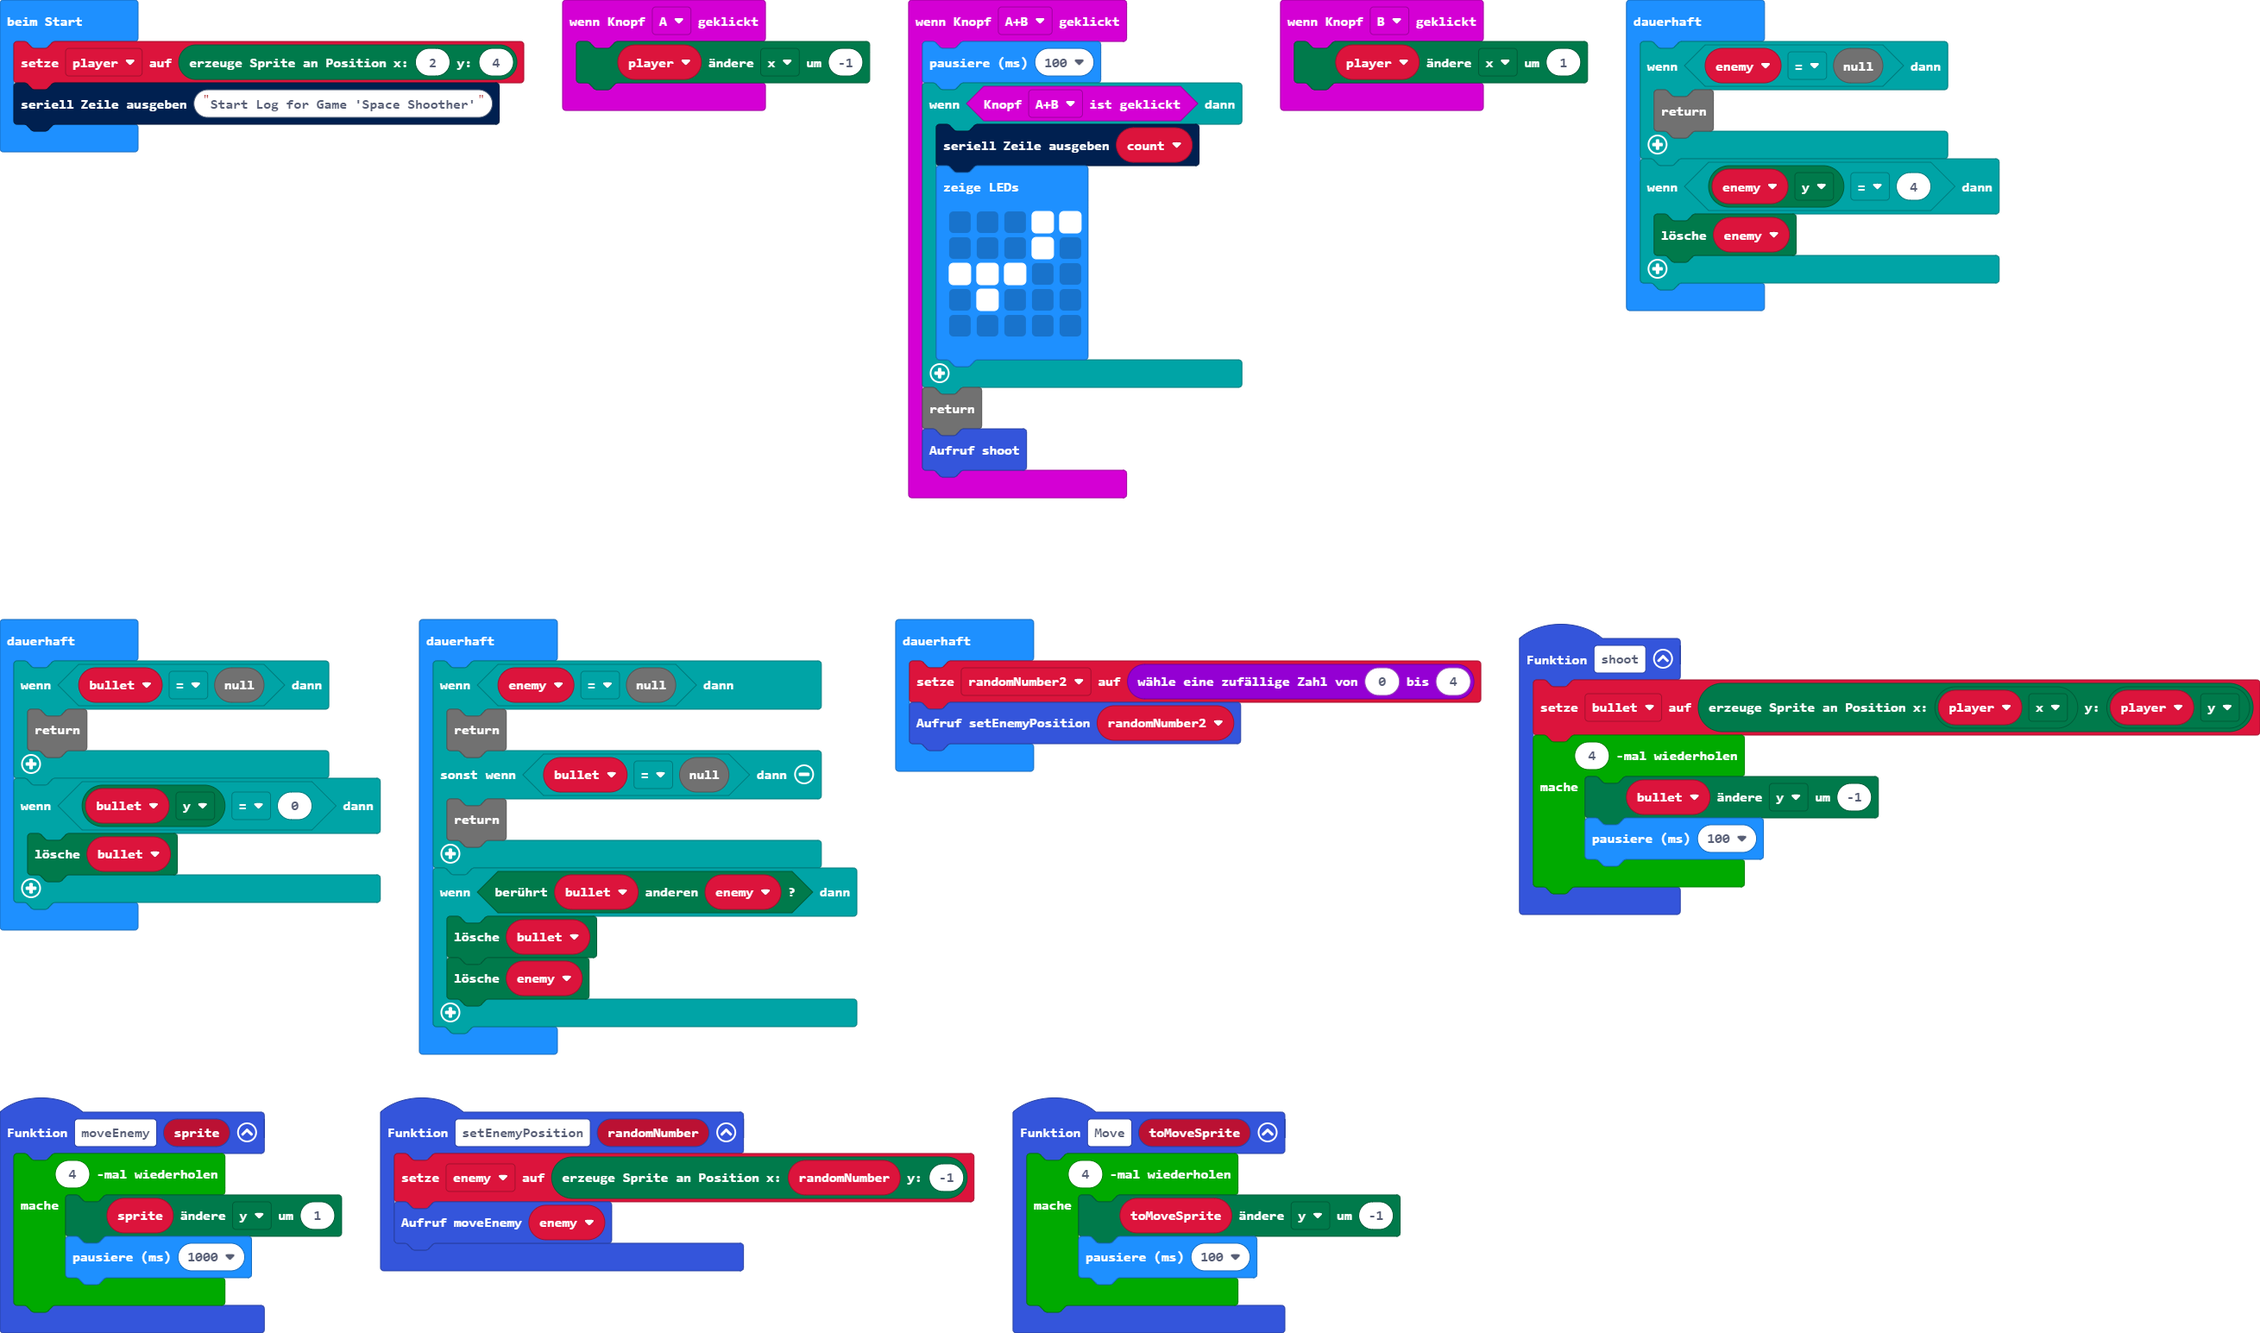
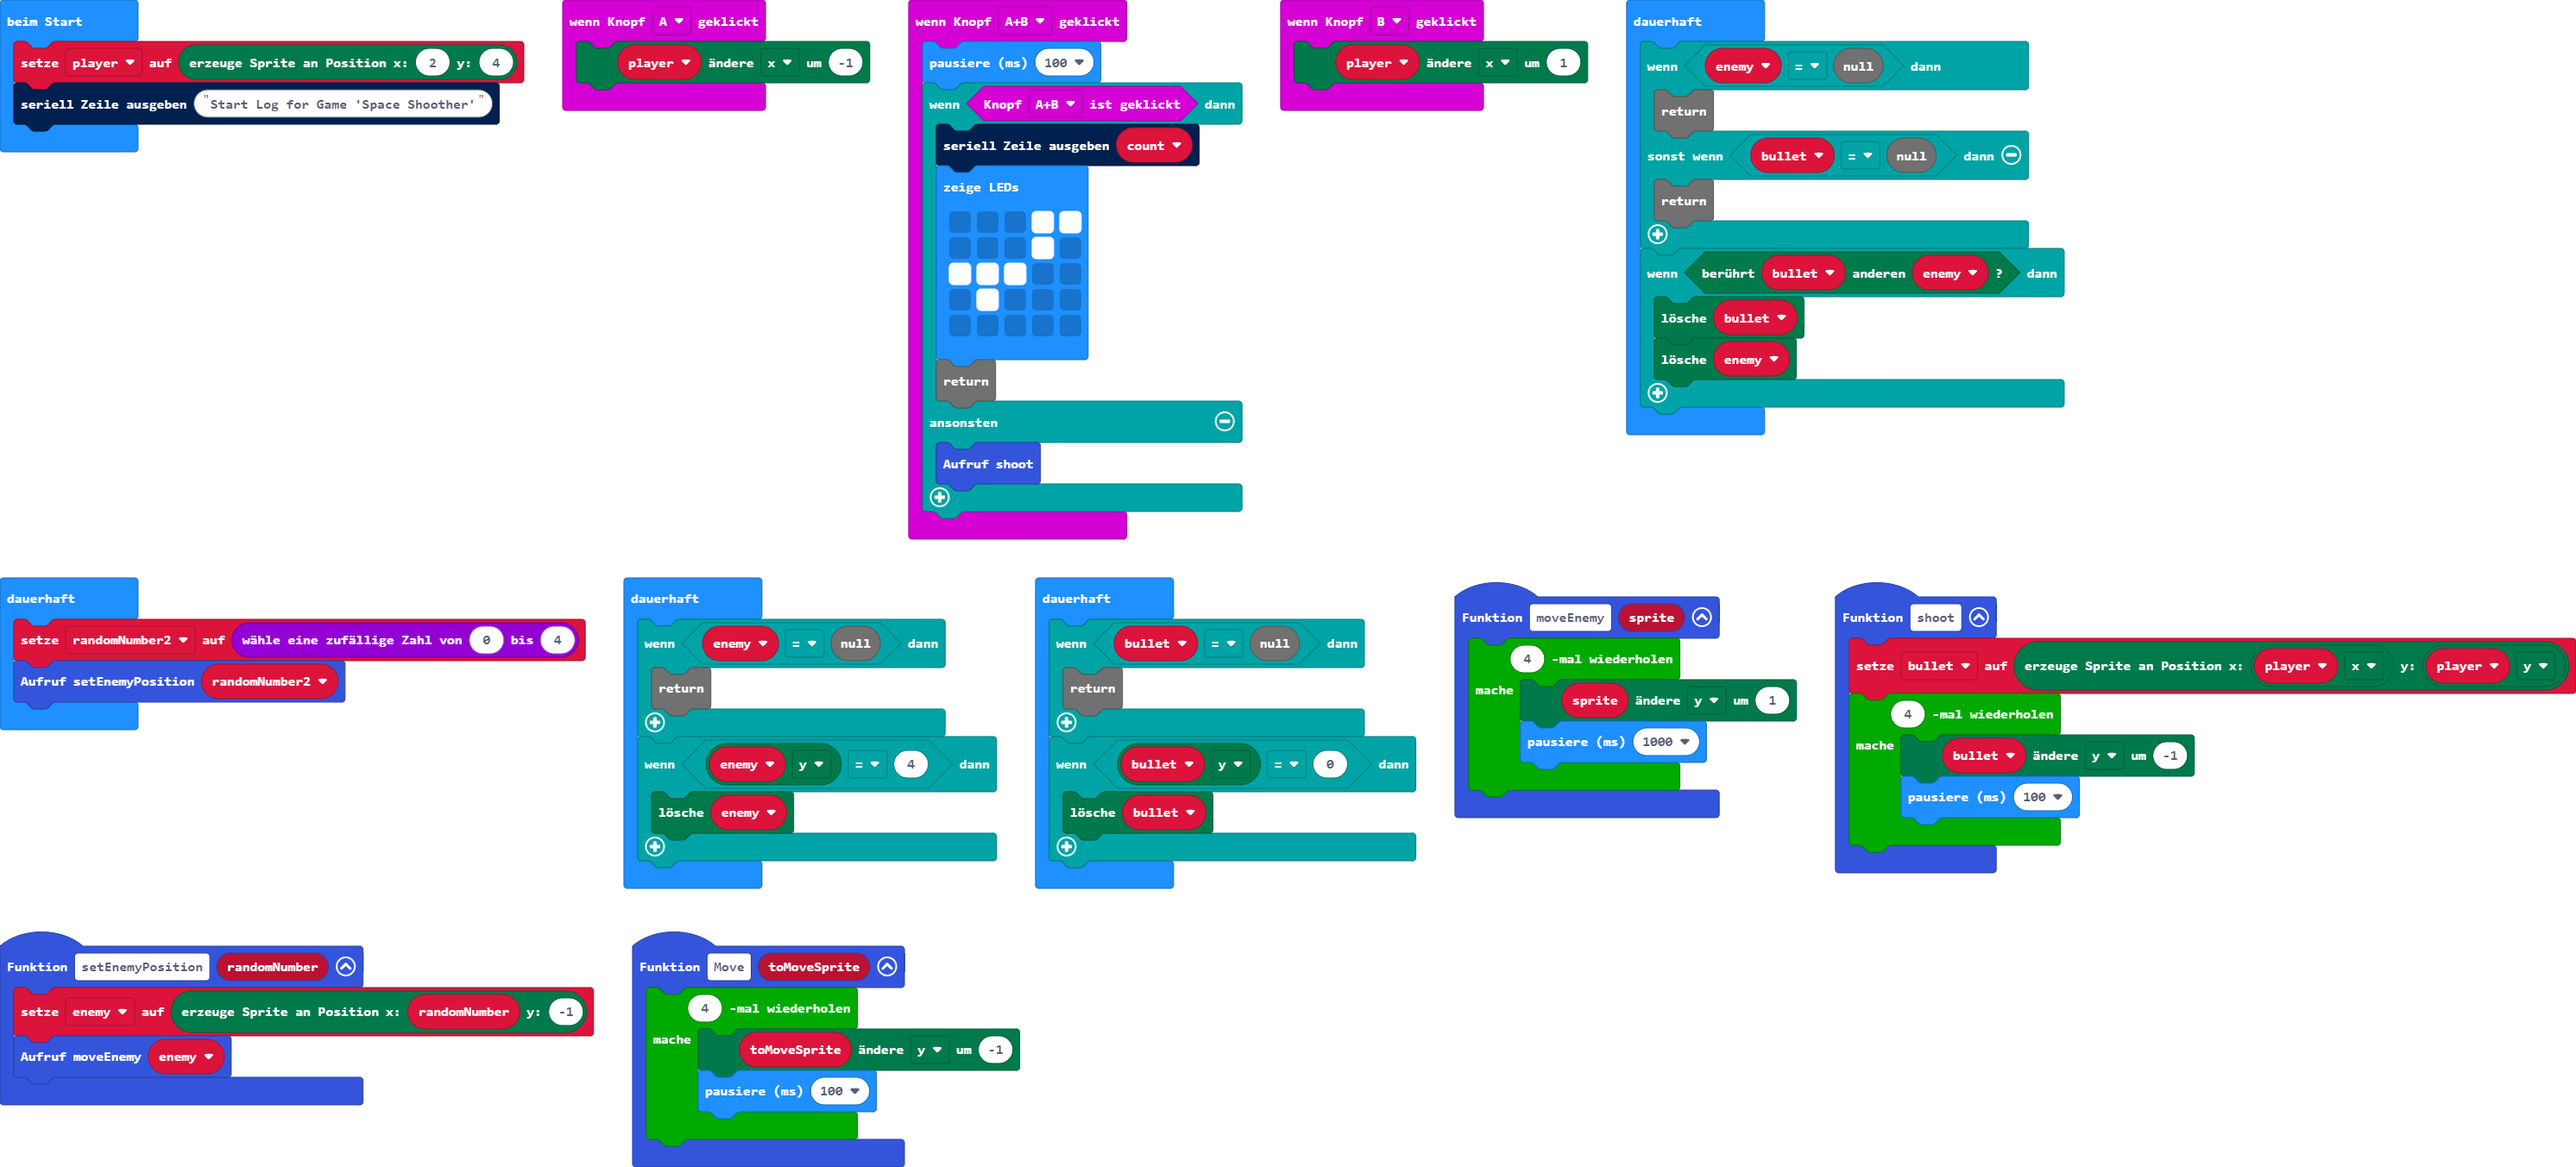
Aktualisiere main.blocks, main.ts

diff --git a/main.ts b/main.ts
@@ -26,9 +26,10 @@ input.onButtonPressed(Button.AB, function () {
             . # . . .
             . . . . .
             `)
+        return
+    } else {
+        shoot()
     }
-    return
-shoot()
 })
 input.onButtonPressed(Button.B, function () {
     player.change(LedSpriteProperty.X, 1)
@@ -52,6 +53,21 @@ serial.writeLine("Start Log for Game 'Space Shoother'")
 basic.forever(function () {
     if (enemy == null) {
         return
+    } else if (bullet == null) {
+        return
+    }
+    if (bullet.isTouching(enemy)) {
+        bullet.delete()
+        enemy.delete()
+    }
+})
+basic.forever(function () {
+    randomNumber2 = randint(0, 4)
+    setEnemyPosition(randomNumber2)
+})
+basic.forever(function () {
+    if (enemy == null) {
+        return
     }
     if (enemy.get(LedSpriteProperty.Y) == 4) {
         enemy.delete()
@@ -64,19 +80,4 @@ basic.forever(function () {
     if (bullet.get(LedSpriteProperty.Y) == 0) {
         bullet.delete()
     }
-})
-basic.forever(function () {
-    if (enemy == null) {
-        return
-    } else if (bullet == null) {
-        return
-    }
-    if (bullet.isTouching(enemy)) {
-        bullet.delete()
-        enemy.delete()
-    }
-})
-basic.forever(function () {
-    randomNumber2 = randint(0, 4)
-    setEnemyPosition(randomNumber2)
 })
